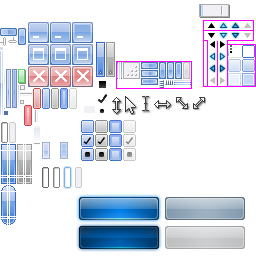
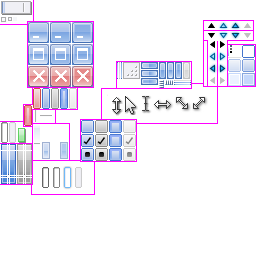
gui misc

diff --git a/api/gui.cpp b/api/gui.cpp
@@ -15,17 +15,17 @@
 #define RESIZE_BOTTOM_RIGHT 	(10)
 #define RESIZE_MOVE		(0)
 
-#define STANDARD_BACKGROUND_COLOR (0xFFF0F0F5)
-
 #define SCROLLBAR_SIZE (17)
 #define SCROLLBAR_BUTTON_AMOUNT (64)
+
+#define STANDARD_BACKGROUND_COLOR (0xF5F6F9)
 
 // TODO Calculator textbox - selection extends out of top of textbox
 // TODO Minor menu[bar] border adjustments; menu icons.
 // TODO Keyboard controls.
 // TODO Send repeat messages for held left press? Scrollbar buttons, scrollbar nudges, scroll-selections, etc.
 // TODO Minimum scrollbar grip size.
-// TODO Clipping input.
+// TODO Minimum size is smaller than expected?
 
 struct UIImage {
 	OSRectangle region;
@@ -62,7 +62,7 @@ static UIImage inactiveWindowBorder43	= {{16 + 10, 16 + 10 + 6, 178, 178 + 6}, {
 
 static UIImage progressBarBackground 	= {{1, 8, 122, 143}, {3, 6, 125, 139}};
 static UIImage progressBarDisabled   	= {{9, 16, 122, 143}, {11, 14, 125, 139}};
-static UIImage progressBarPellet     	= {{18, 26, 69, 84}, {18, 18, 69, 69}};
+static UIImage progressBarPellet     	= {{18, 26, 128, 143}, {18, 18, 128, 128}};
 
 #ifndef SUPER_COOL_BUTTONS
 static UIImage buttonNormal		= {{51, 59, 88, 109}, {51 + 3, 51 + 5, 88 + 10, 88 + 11}};
@@ -92,8 +92,8 @@ static UIImage textboxFocus		= {{11 + 52, 11 + 61, 166, 189}, {11 + 55, 11 + 58,
 static UIImage textboxHover		= {{-11 + 52, -11 + 61, 166, 189}, {-11 + 55, -11 + 58, 169, 186}};
 static UIImage textboxDisabled		= {{22 + 52, 22 + 61, 166, 189}, {22 + 55, 22 + 58, 169, 186}};
 
-static UIImage gridBox 			= {{20, 26, 85, 91}, {22, 23, 87, 88}};
-static UIImage menuBox 			= {{199, 229, 4, 17}, {225, 227, 7, 9}};
+static UIImage gridBox 			= {{1, 7, 17, 23}, {3, 4, 19, 20}};
+static UIImage menuBox 			= {{1, 32, 1, 15}, {28, 30, 4, 6}};
 static UIImage menubarBackground	= {{34, 40, 124, 145}, {35, 38, 124, 124}};
 
 static UIImage menuItemHover		= {{42, 50, 142, 159}, {45, 46, 151, 152}};
@@ -136,7 +136,7 @@ static UIImage smallArrowRightHover    = {{218, 227, 51, 62}, {218, 218, 51, 51}
 static UIImage smallArrowRightPressed  = {{218, 227, 63, 74}, {218, 218, 63, 63}};
 static UIImage smallArrowRightDisabled = {{218, 227, 75, 86}, {218, 218, 75, 75}};
 
-static UIImage lineHorizontal		= {{20, 32, 92, 96}, {21, 22, 92, 92}};
+static UIImage lineHorizontal		= {{40, 52, 114, 118}, {41, 42, 114, 114}};
 static UIImage *lineHorizontalBackgrounds[] = { &lineHorizontal, &lineHorizontal, &lineHorizontal, &lineHorizontal, };
 static UIImage lineVertical		= {{34, 38, 110, 122}, {34, 34, 111, 112}};
 static UIImage *lineVerticalBackgrounds[] = { &lineVertical, &lineVertical, &lineVertical, &lineVertical, };
@@ -237,7 +237,7 @@ static const int totalBorderWidth = 6 + 6;
 static const int totalBorderHeight = 6 + 24 + 6;
 
 struct GUIObject : APIObject {
-	OSRectangle bounds, cellBounds;
+	OSRectangle bounds, cellBounds, inputBounds;
 	uint16_t descendentInvalidationFlags;
 	uint16_t layout;
 	uint16_t preferredWidth, preferredHeight;
@@ -337,6 +337,7 @@ struct Grid : GUIObject {
 	unsigned flags;
 	int borderSize, gapSize;
 	UIImage *background;
+	uint32_t backgroundColor;
 	OSCallback notificationCallback;
 	int xOffset, yOffset;
 };
@@ -570,6 +571,14 @@ static OSCallbackResponse ProcessControlMessage(OSObject _object, OSMessage *mes
 					message->layout.top, message->layout.bottom);
 			StandardCellLayout(control);
 
+			PushClipRectangle(control->bounds);
+			control->inputBounds = CLIP_RECTANGLE;
+			if (control->verbose) {
+				OSPrint("Layout control %x: %d->%d, %d->%d; input %d->%d, %d->%d\n", control, control->bounds.left, control->bounds.right, control->bounds.top, control->bounds.bottom,
+						control->inputBounds.left, control->inputBounds.right, control->inputBounds.top, control->inputBounds.bottom);
+			}
+			PopClipRectangle();
+
 			control->relayout = false;
 			OSRepaintControl(control);
 			SetParentDescendentInvalidationFlags(control, DESCENDENT_REPAINT);
@@ -754,7 +763,7 @@ static OSCallbackResponse ProcessControlMessage(OSObject _object, OSMessage *mes
 		} break;
 
 		case OS_MESSAGE_HIT_TEST: {
-			message->hitTest.result = IsPointInRectangle(control->bounds, message->hitTest.positionX, message->hitTest.positionY);
+			message->hitTest.result = IsPointInRectangle(control->inputBounds, message->hitTest.positionX, message->hitTest.positionY);
 		} break;
 
 		case OS_MESSAGE_MOUSE_RIGHT_PRESSED: {
@@ -774,7 +783,7 @@ static OSCallbackResponse ProcessControlMessage(OSObject _object, OSMessage *mes
 		} break;
 
 		case OS_MESSAGE_MOUSE_MOVED: {
-			if (!IsPointInRectangle(control->bounds, message->mouseMoved.newPositionX, message->mouseMoved.newPositionY)) {
+			if (!IsPointInRectangle(control->inputBounds, message->mouseMoved.newPositionX, message->mouseMoved.newPositionY)) {
 				break;
 			}
 
@@ -1499,6 +1508,7 @@ OSObject OSCreateLine(bool orientation) {
 	Control *control = (Control *) OSHeapAllocate(sizeof(Control), true);
 	control->type = API_OBJECT_CONTROL;
 	control->backgrounds = orientation ? lineVerticalBackgrounds : lineHorizontalBackgrounds;
+	control->drawParentBackground = true;
 
 	control->preferredWidth = 4;
 	control->preferredHeight = 4;
@@ -1812,6 +1822,8 @@ static OSCallbackResponse ProcessGridMessage(OSObject _object, OSMessage *messag
 					}
 				}
 
+				PushClipRectangle(grid->bounds);
+
 				int posX = grid->bounds.left + grid->borderSize - grid->xOffset;
 
 				for (uintptr_t i = 0; i < grid->columns; i++) {
@@ -1835,6 +1847,8 @@ static OSCallbackResponse ProcessGridMessage(OSObject _object, OSMessage *messag
 
 					posX += grid->widths[i] + grid->gapSize;
 				}
+
+				PopClipRectangle();
 
 				grid->repaint = true;
 				SetParentDescendentInvalidationFlags(grid, DESCENDENT_REPAINT);
@@ -1911,9 +1925,9 @@ static OSCallbackResponse ProcessGridMessage(OSObject _object, OSMessage *messag
 						if (grid->background) {
 							OSDrawSurfaceClipped(message->paint.surface, OS_SURFACE_UI_SHEET, grid->bounds, grid->background->region,
 									grid->background->border, OS_DRAW_MODE_REPEAT_FIRST, 0xFF, CLIP_RECTANGLE);
-						} else {
+						} else if (grid->backgroundColor) {
 							if (PushClipRectangle(grid->bounds)) {
-								OSFillRectangle(message->paint.surface, CLIP_RECTANGLE, OSColor(STANDARD_BACKGROUND_COLOR));
+								OSFillRectangle(message->paint.surface, CLIP_RECTANGLE, OSColor(grid->backgroundColor));
 							}
 
 							PopClipRectangle();
@@ -1922,8 +1936,6 @@ static OSCallbackResponse ProcessGridMessage(OSObject _object, OSMessage *messag
 
 					for (uintptr_t i = 0; i < grid->columns * grid->rows; i++) {
 						if (grid->objects[i]) {
-							if (grid->objects[i]->verbose) OSPrint("Drawing verbose object %x\n");
-
 							if (PushClipRectangle(grid->objects[i]->bounds)) {
 								OSSendMessage(grid->objects[i], &m);
 							}
@@ -1947,16 +1959,15 @@ static OSCallbackResponse ProcessGridMessage(OSObject _object, OSMessage *messag
 				OSRectangle region = grid->background->region;
 				OSRectangle border = grid->background->border;
 
-
 				if (PushClipRectangle(destination)) {
 					OSDrawSurfaceClipped(message->paint.surface, OS_SURFACE_UI_SHEET, full, region,
 							border, OS_DRAW_MODE_REPEAT_FIRST, 0xFF, CLIP_RECTANGLE);
 				}
 
 				PopClipRectangle();
-			} else {
+			} else if (grid->backgroundColor) {
 				if (PushClipRectangle(destination)) {
-					OSFillRectangle(message->paint.surface, CLIP_RECTANGLE, OSColor(STANDARD_BACKGROUND_COLOR));
+					OSFillRectangle(message->paint.surface, CLIP_RECTANGLE, OSColor(grid->backgroundColor));
 				}
 
 				PopClipRectangle();
@@ -2008,6 +2019,7 @@ OSObject OSCreateGrid(unsigned columns, unsigned rows, unsigned flags) {
 	Grid *grid = (Grid *) memory;
 	grid->type = API_OBJECT_GRID;
 
+	grid->backgroundColor = STANDARD_BACKGROUND_COLOR;
 	grid->columns = columns;
 	grid->rows = rows;
 	grid->objects = (GUIObject **) (memory + sizeof(Grid));
@@ -2020,6 +2032,7 @@ OSObject OSCreateGrid(unsigned columns, unsigned rows, unsigned flags) {
 	if (flags & OS_CREATE_GRID_NO_BORDER) grid->borderSize = 0; else grid->borderSize = (flags & OS_CREATE_GRID_MENU) ? 4 : 8;
 	if (flags & OS_CREATE_GRID_NO_GAP) grid->gapSize = 0; else grid->gapSize = (flags & OS_CREATE_GRID_MENU) ? 4 : 6;
 	if (flags & OS_CREATE_GRID_DRAW_BOX) { grid->borderSize += 4; grid->background = &gridBox;  }
+	if (flags & OS_CREATE_GRID_NO_BACKGROUND) { grid->backgroundColor = 0; }
 
 	OSSetCallback(grid, OS_MAKE_CALLBACK(ProcessGridMessage, nullptr));
 
@@ -2890,6 +2903,7 @@ static OSCallbackResponse ProcessWindowMessage(OSObject _object, OSMessage *mess
 
 	if (window->descendentInvalidationFlags & DESCENDENT_RELAYOUT) {
 		window->descendentInvalidationFlags &= ~DESCENDENT_RELAYOUT;
+		clipStack[0] = OS_MAKE_RECTANGLE(0, window->width, 0, window->height);
 
 		OSMessage message;
 		message.type = OS_MESSAGE_LAYOUT;
@@ -2909,7 +2923,6 @@ static OSCallbackResponse ProcessWindowMessage(OSObject _object, OSMessage *mess
 
 	if (window->descendentInvalidationFlags & DESCENDENT_REPAINT) {
 		window->descendentInvalidationFlags &= ~DESCENDENT_REPAINT;
-
 		clipStack[0] = OS_MAKE_RECTANGLE(0, window->width, 0, window->height);
 
 		OSMessage message;
@@ -3007,7 +3020,7 @@ static Window *CreateWindow(OSWindowSpecification *specification, Window *parent
 		OSAddControl(window->root, 2, 3, CreateWindowResizeHandle(windowBorder43, RESIZE_BOTTOM_RIGHT), 0);
 
 		if (flags & OS_CREATE_WINDOW_WITH_MENUBAR) {
-			OSObject grid = OSCreateGrid(1, 2, OS_CREATE_GRID_NO_GAP | OS_CREATE_GRID_NO_BORDER);
+			OSObject grid = OSCreateGrid(1, 2, OS_CREATE_GRID_NO_GAP | OS_CREATE_GRID_NO_BORDER | OS_CREATE_GRID_NO_BACKGROUND);
 			OSAddGrid(window->root, 1, 2, grid, OS_CELL_FILL);
 			OSAddGrid(grid, 0, 0, OSCreateMenu(specification->menubar, nullptr, OS_MAKE_POINT(0, 0), OS_CREATE_MENUBAR), OS_CELL_H_PUSH | OS_CELL_H_EXPAND);
 		}

diff --git a/api/test.cpp b/api/test.cpp
@@ -455,13 +455,15 @@ extern "C" void ProgramEntry() {
 
 	OSAddControl(content, 1, 2, OSCreateTextbox(0), OS_CELL_H_PUSH | OS_CELL_H_EXPAND);
 
-	// OSAddControl(content, 0, 0, OSCreateIndeterminateProgressBar(), 0);
+	OSAddControl(content, 0, 0, OSCreateIndeterminateProgressBar(), 0);
 	OSAddControl(content, 0, 3, OSCreateButton(commandDeleteEverything), 0);
 
 	{
+		OSObject textbox = OSCreateTextbox(0);
+		// OSDebugGUIObject(textbox);
 		OSObject grid = OSCreateGrid(2, 2, OS_CREATE_GRID_DRAW_BOX);
 		OSAddGrid(content, 1, 4, grid, OS_CELL_H_RIGHT);
-		OSAddControl(grid, 0, 0, OSCreateTextbox(0), OS_CELL_H_LEFT);
+		OSAddControl(grid, 0, 0, textbox, OS_CELL_H_LEFT);
 		OSAddControl(grid, 0, 1, OSCreateButton(actionToggleEnabled), OS_CELL_H_LEFT);
 	}
 

diff --git a/desktop/main.cpp b/desktop/main.cpp
@@ -145,7 +145,7 @@ extern "C" void ProgramEntry() {
 #else
 	OSHandle surface = OS_SURFACE_WALLPAPER;
 	OSLinearBuffer buffer; OSGetLinearBuffer(surface, &buffer);
-	OSFillRectangle(surface, OS_MAKE_RECTANGLE(0, buffer.width, 0, buffer.height), OSColor(83, 144, 166));
+	OSFillRectangle(surface, OS_MAKE_RECTANGLE(0, buffer.width, 0, buffer.height), OSColor(0x5372A6));
 #endif
 
 	OSRedrawAll();

diff --git a/api/os.h b/api/os.h
@@ -719,6 +719,7 @@ typedef struct OSWindowSpecification {
 #define OS_CREATE_GRID_NO_GAP               (2)
 #define OS_CREATE_GRID_DRAW_BOX             (4)
 #define OS_CREATE_GRID_MENU	            (8)
+#define OS_CREATE_GRID_NO_BACKGROUND	    (16)
 
 #define OS_CREATE_SCROLL_PANE_VERTICAL      (1)
 #define OS_CREATE_SCROLL_PANE_HORIZONTAL    (2)
